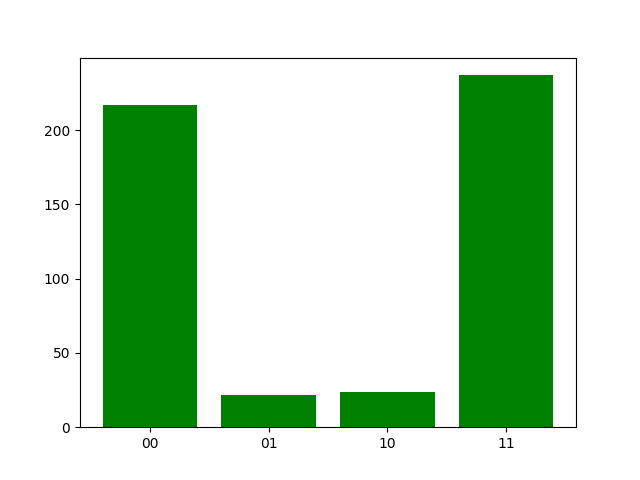
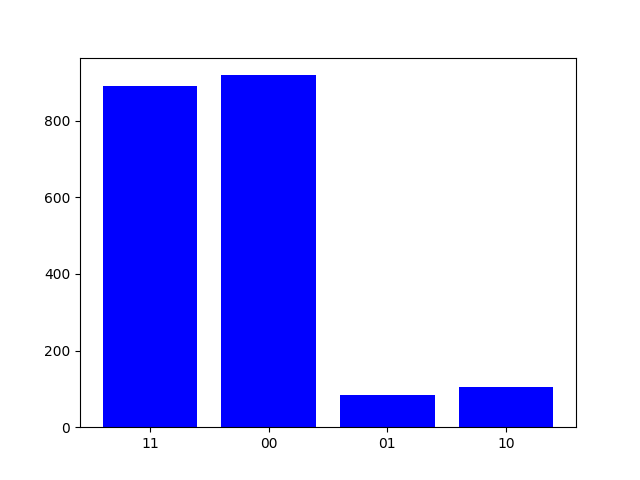
optimising and neating up

diff --git a/main.py b/main.py
@@ -1,20 +1,59 @@
+from collections import Counter
 from qiskit import execute, Aer
-import matplotlib.pyplot as plt
-
+from qiskit.circuit import QuantumCircuit
+from matplotlib.pyplot import bar, savefig
 from quantum_circuits_creator import noisy_cnot
 
+
+def plot_ket_distribution(ket_distribution: dict) -> None:
+    """
+    Plots the given ket distribution.
+
+    Args:
+        ket_distribution:
+            A dictionary mapping ket states to their frequency.
+    """
+    bar(
+        list(ket_distribution.keys()),
+        list(ket_distribution.values()),
+        color="blue",
+    )
+    savefig("noise_probability_test.png")
+
+
+def execute_circuit_record_result(
+    circuit: QuantumCircuit, backend=Aer.get_backend("qasm_simulator")
+) -> dict:
+    """
+    Executes the given circuit and returns the result.
+
+    Args:
+        circuit: The circuit to execute.
+        backend: The backend to use.
+
+    Returns:
+        The result of the circuit.
+    """
+    return (
+        execute(circuit, backend=backend, shots=1)
+        .result()
+        .get_counts(circuit)
+        .most_frequent()
+    )
+
+
+def main():
+    plot_ket_distribution(
+        Counter(
+            [
+                execute_circuit_record_result(
+                    noisy_cnot({"h": 0.1, "cx": 0.1})
+                )
+                for _ in range(1000)
+            ]
+        )
+    )
+
+
 if __name__ == "__main__":
-    counts = {"00": 0, "01": 0, "10": 0, "11": 0}
-    backend = Aer.get_backend("qasm_simulator")
-
-    for i in range(500):
-        circuit = noisy_cnot({"h": 0.1, "cx": 0.1})
-        counts[
-            execute(circuit, backend=backend, shots=1)
-            .result()
-            .get_counts(circuit)
-            .most_frequent()
-        ] += 1
-
-    plt.bar(list(counts.keys()), counts.values(), color="g")
-    plt.savefig("noise_probability_test.png")
+    main()

diff --git a/quantum_circuits_creator.py b/quantum_circuits_creator.py
@@ -4,6 +4,9 @@ from random import random
 from qiskit.circuit import Gate
 from qiskit.circuit.library import ZGate, XGate
 
+ZGATE = ZGate()
+XGATE = XGate()
+
 
 def return_initial_quantum_circuit(
     num_qubits: int, num_classical_bits: int
@@ -42,14 +45,14 @@ def noisy_cnot(
     )
     circuit.h(0)
     apply_noise_to_circuit(
-        circuit, [0], ZGate(), noise_probability_for_gates["h"]
+        circuit, [0], ZGATE, noise_probability_for_gates["h"]
     )
     circuit.cx(0, 1)
     apply_noise_to_circuit(
-        circuit, [0], ZGate(), noise_probability_for_gates["cx"]
+        circuit, [0], ZGATE, noise_probability_for_gates["cx"]
     )
     apply_noise_to_circuit(
-        circuit, [1], XGate(), noise_probability_for_gates["cx"]
+        circuit, [1], XGATE, noise_probability_for_gates["cx"]
     )
     circuit.measure([0, 1], [0, 1])
     return circuit
